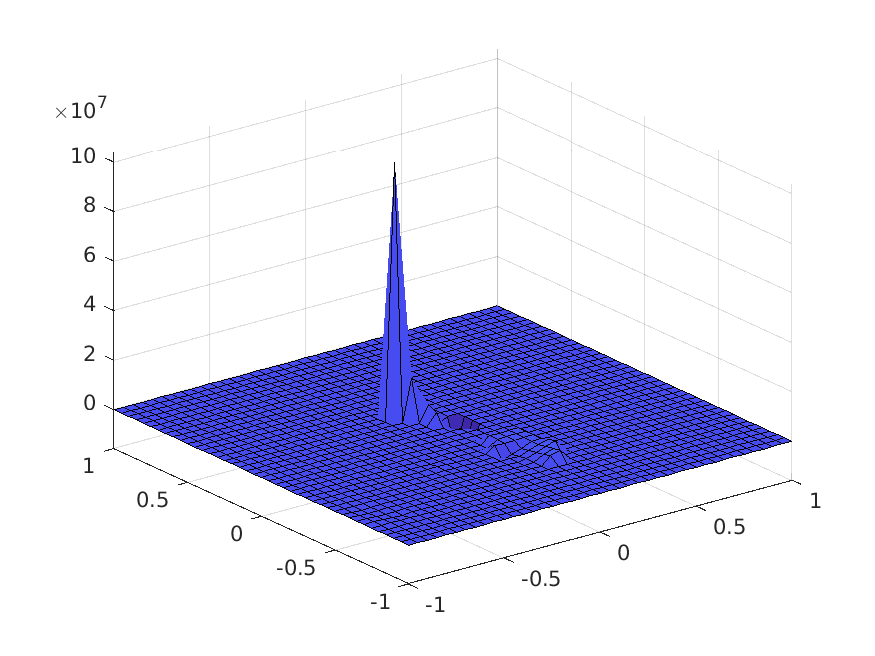
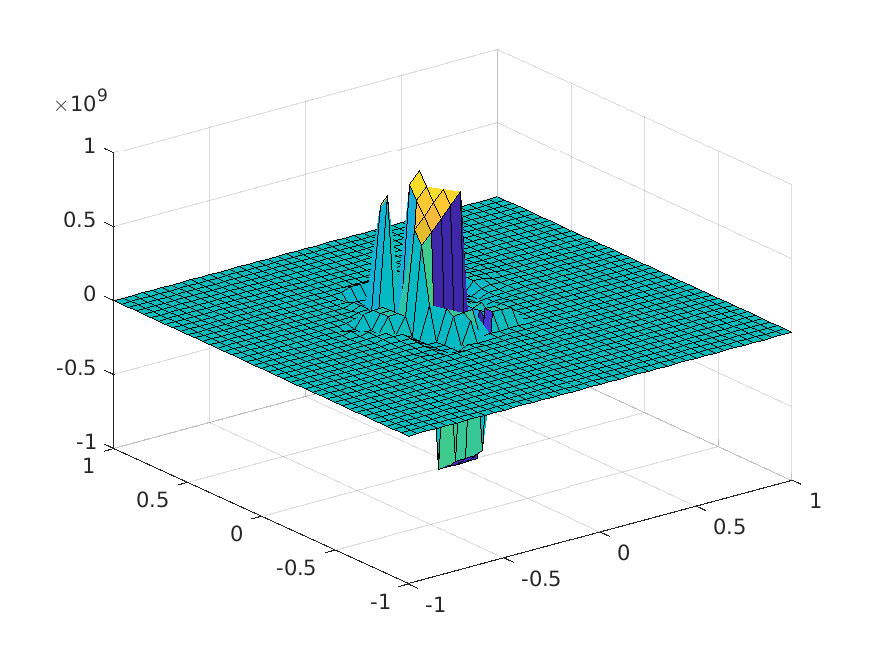
fixed some bugs

diff --git a/Codes1.1/Codes3D/Maxwell3DMat.m b/Codes1.1/Codes3D/Maxwell3DMat.m
@@ -1,0 +1,57 @@
+function [Hx, Hy, Hz, Ex, Ey, Ez] = Maxwell3DMat(Hx, Hy, Hz, Ex, Ey, Ez, FinalTime, source, source_coordinates)
+% Purpose  : Integrate 3D Maxwell's until FinalTime starting with
+%            initial conditions Hx,Hy,Hz, Ex,Ey,Ez
+% the point source given by "source" is injected at the node nearest to
+% "source_coordinates" into the Ez field
+%
+% In this function the Equation d/dt U = C*U from the Lawson Paper is
+% solved using a standard LSRK scheme
+
+Globals3D;
+Ez_time = [];
+
+U = FieldsToU(Hx, Hy, Hz, Ex, Ey, Ez);
+resU = zeros(2*3*Np*K,1);
+
+% find node to inject the source
+idx = findNearestNode(source_coordinates);
+idx = idxEH_to_idxU(3, idx);
+
+% compute time step size
+dt = dtscale3D;  % TW: buggy
+
+% correct dt for integer # of time steps
+Ntsteps = ceil(FinalTime/dt); dt = FinalTime/Ntsteps
+
+time = 0; tstep = 1;
+
+nextplottime = 0.1;
+
+while (time<FinalTime) % outer time step loop 
+    
+  % inject the source
+  U(idx) = U(idx) + source(time);
+    
+  for INTRK = 1:5   % inner multi-stage Runge-Kutta loop	
+    resU = rk4a(INTRK)*resU + dt*Ccoarse*U;
+    U = U + rk4b(INTRK)*resU;
+  end
+   
+   time = time+dt;    % Increment time
+   tstep = tstep+1;
+   
+   %store field value over time
+   Ez_time = [Ez_time, [time;Ez(node_idx(1),node_idx(2))]];
+   
+   %plot
+   if time > nextplottime
+       [Hx,Hy,Hz,Ex,Ey,Ez] = UToFields(U);
+       nextplottime = nextplottime + 0.2;
+       f = figure('visible','off');
+       PlotPlain3D(0, Ez); drawnow; pause(0.1);
+       filename = "field" + num2str(tstep + ".png");
+       saveas(f,filename)
+   end
+end
+return;
+

diff --git a/Codes1.1/Codes3D/test.m b/Codes1.1/Codes3D/test.m
@@ -49,3 +49,14 @@ Ex = zeros(Np, K); Ey = zeros(Np, K); Ez = zeros(Np, K);
 
 %plot(Ez_time(1,:), Ez_time(2,:), 'b');
 %legend('Maxwell3D', 'Lawson');
+
+%% Maxwell3DMat
+fine_idx = [];
+InitMatLawsonSparse;
+%%
+% zero initial condition 
+Hx = zeros(Np, K); Hy = zeros(Np, K); Hz = zeros(Np, K);
+Ex = zeros(Np, K); Ey = zeros(Np, K); Ez = zeros(Np, K);
+
+[Hx,Hy,Hz,Ex,Ey,Ez] = Maxwell3DMat(Hx,Hy,Hz,Ex,Ey,Ez,FinalTime,source,source_coordinates);
+

diff --git a/Codes1.1/Codes3D/SurfaceMassLawson.m b/Codes1.1/Codes3D/SurfaceMassLawson.m
@@ -26,7 +26,7 @@ for face=1:Nfaces
   
   for i=1:Nfp
      for j=1:Nfp
-         F(Fmask(i,face), Fmask(j,face)) = 0.5 * massFace(i, j);
+         F(Fmask(i,face), Fmask(j,face)) = 0.5 * massFace(i, j); %wrong?
      end
   end
   
